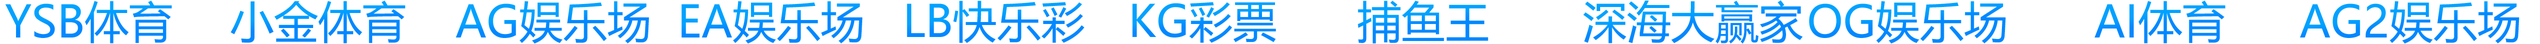
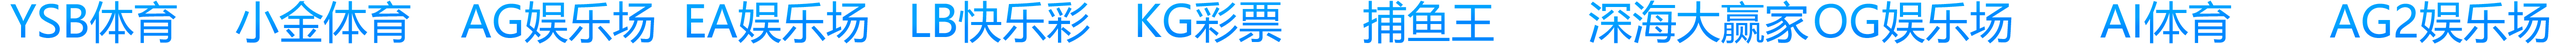
PC版手机投注页面

diff --git a/src/components/SubPage/mobile.vue b/src/components/SubPage/mobile.vue
@@ -78,8 +78,8 @@ export default {
           ename: 'ysb'
         },
         {
-          cnmae: '小金体育',
-          ename: 'xj'
+          cnmae: 'AI体育',
+          ename: 'ai'
         },
         {
           cnmae: 'AG娱乐场',
@@ -116,6 +116,10 @@ export default {
         {
           cnmae: 'DT老虎机',
           ename: 'dt'
+        },
+        {
+          cnmae: 'AG2娱乐场',
+          ename: 'ag2'
         }
       ],
       mobileInfo: [
@@ -330,6 +334,22 @@ export default {
               em: window.location.host
             }
           ]
+        },
+        {
+          em: '视讯盛宴',
+          span: '全新视界咪牌百家乐，让您全新感官体验',
+          point: 'ag2',
+          imgLi: [
+            {
+              // img: 'ag_app.png',
+              img: 'ea_h5.png',
+              icon: ['h5'],
+              p: 'HTM5版',
+              span: '手机浏览器打开：',
+              // em: 'ag.zxapp.net'
+              em: window.location.host
+            }
+          ]
         }
       ],
       zxlogo: '/static/images/phone/zxlogo.png',
@@ -427,6 +447,9 @@ export default {
 .mobile .mobile-bar .mobile-main .title-Ename.og {
   background-position: -13200px 0;
 }
+.mobile .mobile-bar .mobile-main .title-Ename.ag2 {
+  background-position: -14390px 0;
+}
 .mobile .mobile-bar .mobile-main .goods-img {
   width: 680px;
   height: 728px;
@@ -444,6 +467,9 @@ export default {
   background: url(../../assets/images/SubPage/phone/phone_game_mobile_xj.png);
 }
 .mobile .mobile-bar .mobile-main .goods-img.ag {
+  background: url(../../assets/images/SubPage/phone/phone_game_mobile_ag.png);
+}
+.mobile .mobile-bar .mobile-main .goods-img.ag2 {
   background: url(../../assets/images/SubPage/phone/phone_game_mobile_ag.png);
 }
 .mobile .mobile-bar .mobile-main .goods-img.ea {
@@ -489,6 +515,9 @@ export default {
 }
 .mobile .mobile-bar .mobile-main .goods-img.ag i {
   background: url(../../assets/images/SubPage/phone/phone_game_model_ag.png);
+}
+.mobile .mobile-bar .mobile-main .goods-img.ag2 i {
+  background: url(../../assets/images/SubPage/phone/phone_game_model_ag2.png);
 }
 .mobile .mobile-bar .mobile-main .goods-img.ea i {
   background: url(../../assets/images/SubPage/phone/phone_game_model_ea.png);
@@ -558,6 +587,9 @@ export default {
 }
 .mobile .mobile-bar .mobile-main .title-Cname.og {
   background-position: -4180px 0;
+}
+.mobile .mobile-bar .mobile-main .title-Cname.ag2 {
+  background-position: -4554px 0;
 }
 .mobile .mobile-bar .mobile-main .info-box {
   width: 600px;

diff --git a/src/components/SubPage/casino.vue b/src/components/SubPage/casino.vue
@@ -220,10 +220,10 @@ export default {
   background-position: -900px 0;
 }
 .game .game-bar .game-main .title-Cname.ag2 {
-  background-position: -4581px 0;
+  background-position: -4644px 0;
 }
 .game .game-bar .game-main .title-Cname.og {
-  background-position: -3600px 0;
+  background-position: -3620px 0;
 }
 .game .game-bar .game-main .info-box {
   width: 600px;
